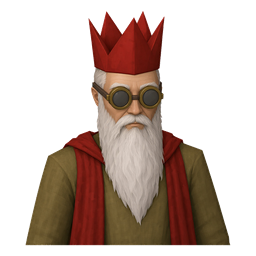
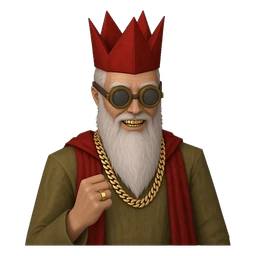
Character header: final gold Wise Old Man portrait (gold teeth, Cuban link chain, gold ring)

diff --git a/app.js b/app.js
@@ -775,7 +775,7 @@ async function charView(sub) {
   const tile = k => `<label class="sk" data-k="${esc(k)}" title="${esc(k)} (max ${skMax(k)})">${SKICONS[k] ? `<img src="${esc(SKICONS[k])}" alt="" width="27" height="27">` : `<span>${esc(k.slice(0, 3))}</span>`}<input type="number" inputmode="numeric" min="${skMin(k)}" max="${skMax(k)}" aria-label="${esc(k)} level (${skMin(k)} to ${skMax(k)})" title="${esc(k)}" data-sk="${esc(k)}" value="${lv(S, k)}"></label>`;
   const maxTot = SKORDER.reduce((a, k) => a + skMax(k), 0);
   const tiles = [['wear', 'Gear I can wear', 'Items filtered to your levels'], ['sets', 'Full sets I can wear', 'Whole armour sets that fit'], ['train', 'Training that fits me', 'Training guides for your levels'], ['money', 'Money making that fits', 'Methods that fit your levels'], ['quest', 'Quests to do', 'Quests you have not finished']];
-  view.innerHTML = `<section class="panel chhero"><div class="chhead"><div class="chdds"><span class="chglow" aria-hidden="true"></span><img class="chwom" src="brand/wise-old-man.webp" width="256" height="256" alt="Wise Old Man in a red partyhat and red cape (custom illustration, not an official Jagex render)" decoding="async"></div>
+  view.innerHTML = `<section class="panel chhero"><div class="chhead"><div class="chdds"><span class="chglow" aria-hidden="true"></span><img class="chwom" src="brand/wise-old-man.webp" width="256" height="256" alt="Wise Old Man in a red partyhat and red cape with gold teeth, a gold Cuban link chain and a gold ring (custom illustration, not an official Jagex render)" decoding="async"></div>
       <div class="chtitle"><h2>My Character</h2><div class="chsub">Your levels fit the gear, money, training and quest helpers to <i>your</i> account.</div></div></div>
     <div class="chbig"><div class="chn tot"><span class="chl">Total level</span><b class="chv" id="tot">${totalLevel(S)}</b><span class="chm">of ${maxTot.toLocaleString()}</span></div>
       <div class="chn cmb"><span class="chl">Combat level</span><b class="chv" id="cmb">${combatLevel(S)}</b><span class="chm">wiki formula</span></div>
